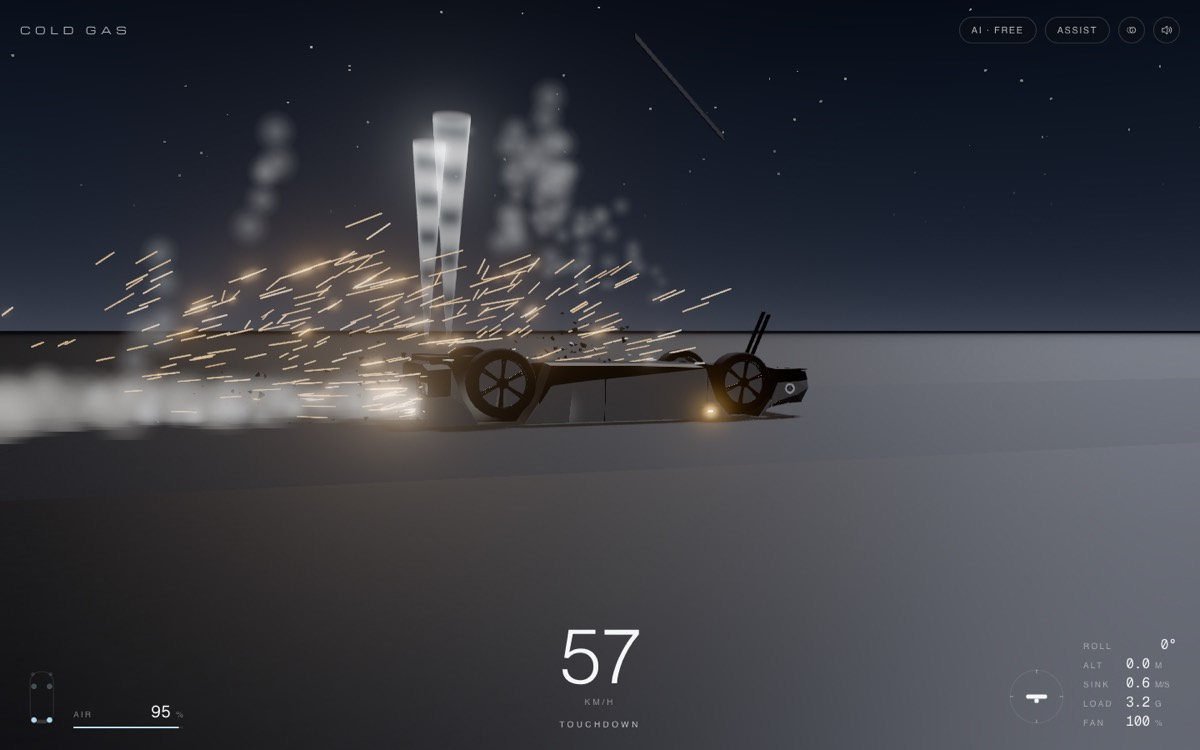
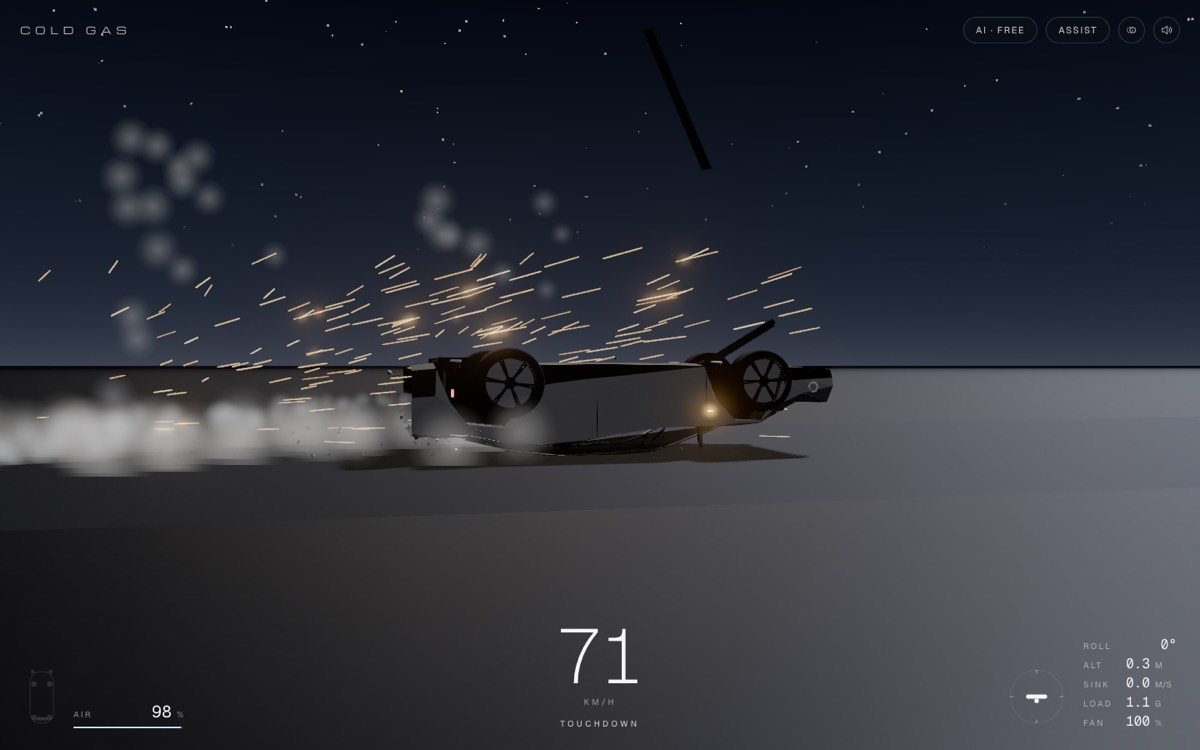
Crashes: rebase onto the taller Wall (SIM_VERSION 9), crash cases for the new mass, screenshots

diff --git a/tests/e2e/smoke.spec.js b/tests/e2e/smoke.spec.js
@@ -175,11 +175,11 @@ test('a crash plays out: impact events, wreckage, hazards, and the replay re-sho
   page.on('console', (m) => { if (m.type() === 'error' && !/api\//.test(m.text()) && !/404/.test(m.text())) errors.push(m.text()); });
   await page.goto('/coldgas/?course=lineup&gfx=low');
   await expect(page.locator('[data-start]')).toBeVisible();
-  // Roll only half way: it comes down on its roof on the row.
+  // Too low over the row: it clips the roofs and rolls over.
   await page.evaluate(() => {
     const g = window.__coldgas;
     g.startRun('reveal');
-    g.S.autopilot = g.createAutopilot('lineup', { rolls: 0.5 });
+    g.S.autopilot = g.createAutopilot('lineup', { apex: 2.5 });
     g.skipCountdown();
   });
   await page.waitForFunction(() => window.__coldgas.S.run.impacts.count > 0, null, { timeout: 45_000 });
@@ -189,7 +189,7 @@ test('a crash plays out: impact events, wreckage, hazards, and the replay re-sho
   expect(run.flipped).toBe(true);
   expect(run.impacts).toBeGreaterThan(5);
   // The replay walks the same events: the hazards come back on once it reaches the crash.
-  await page.evaluate(() => { window.__coldgas.S.replayT = 700; });
+  await page.evaluate(() => { window.__coldgas.S.replayT = 660; });
   await page.waitForFunction(() => window.__coldgas.crash.state.hazard === true, null, { timeout: 30_000 });
   expect(errors).toEqual([]);
 });

diff --git a/src/sim/run.js b/src/sim/run.js
@@ -7,11 +7,12 @@ import { SPEC } from './spec.js';
 import { v3 } from './m3.js';
 import { datan2, dacos, dhypot } from './dmath.js';
 
-// v8: bodywork folds (elastic to a 100 kN yield per hull probe, then plastic crush), no artificial
-// spin damping while the hull is in contact, impact events; v7: body geometry; v6: The Show is one
-// flight (off the Wall, over the row); parked vehicles are bodies with mass, per-surface materials; v5: driver-relative steer/roll/yaw, grip-limited steering; v4: sourced
-// specs (docs/REVEAL_RESEARCH.md); v3: dmath; v2: physics v2
-export const SIM_VERSION = 8;
+// v9: bodywork folds (elastic to a 100 kN yield per hull probe, then plastic crush), no artificial
+// spin damping while the hull is in contact, impact events; v8: taller Wall, sourced mass
+// distribution; v7: body geometry; v6: The Show is one flight (off the Wall, over the row); parked
+// vehicles are bodies with mass, per-surface materials; v5: driver-relative steer/roll/yaw,
+// grip-limited steering; v4: sourced specs (docs/REVEAL_RESEARCH.md); v3: dmath; v2: physics v2
+export const SIM_VERSION = 9;
 export const FRAME_EVERY = 4;           // replay frame every 4 ticks = 60 Hz
 export const MAX_TICKS = 240 * 90;      // 90 s hard cap
 

diff --git a/src/render/crash.js b/src/render/crash.js
@@ -350,7 +350,7 @@ export function createCrash({ scene, hero, carRoot, director, tier = 'high', cou
       // Into the parked car: against the normal (which points out of it, toward the roadster).
       wp.set(x - nx, y - ny, z - nz).applyMatrix4(inv);
       ld.copy(wp).sub(lp).normalize();
-      dent(d, 0.5 + depth * 1.5, depth, salt);
+      dent(d, 0.45 + depth * 1.2, depth, salt);
     }
   }
   function rockParked(i, x, z, nx, ny, nz, speed) {
@@ -473,7 +473,7 @@ export function createCrash({ scene, hero, carRoot, director, tier = 'high', cou
     // A big hit vents a nitrogen line: a white jet of condensation for a moment.
     if (sev > 0.55) st.ventT = Math.max(st.ventT, 1.1 + sev);
     // Parked car: a dent and a rock on its springs.
-    if (body >= 0) { dentParked(body, x, y, z, nx, ny, nz, Math.min(0.22, 0.006 * v * v), imp.tick[i] * 0.29); rockParked(body, x, z, nx, ny, nz, v); }
+    if (body >= 0) { dentParked(body, x, y, z, nx, ny, nz, Math.min(0.14, 0.003 * v * v), imp.tick[i] * 0.29); rockParked(body, x, z, nx, ny, nz, v); }
     crunch(sev, { glass: glassy && v > 5, seed: imp.tick[i] * 31 + imp.probe[i] });
     if (!reduced) {
       director.shake(Math.min(2.6, 0.25 + v * 0.17));

diff --git a/tests/unit/crash.test.js b/tests/unit/crash.test.js
@@ -88,10 +88,12 @@ describe('impact events', () => {
     expect(events(re.impacts)).toEqual(events(carry5.impacts));
     expect(scoreRun(re.t)).toEqual(scoreRun(carry5.t));
   });
-  const roll = fly('lineup', { rolls: 0.5 });
-  it('a rollover: lands on its roof on the row and rolls over, and replays bit-exactly', () => {
+  // Too low over the row: it clips the roofs, goes over on its side and ends on its roof.
+  const roll = fly('lineup', { apex: 2.5 });
+  it('a rollover: clips the row, rolls onto its roof, and replays bit-exactly', () => {
     expect(roll.t.flipped).toBe(true);
-    expect(kinds(roll.impacts, HIT).some((e) => e[2] === PART.roof)).toBe(true);
+    expect(kinds(roll.impacts, HIT).some((e) => e[2] === PART.side && e[4] >= 0)).toBe(true);
+    expect(kinds(roll.impacts, SCRAPE).some((e) => e[2] === PART.roof)).toBe(true);
     expect(Math.max(...roll.car.crush)).toBeGreaterThan(0.05);
     const re = simulate(roll.inputLog, 'lineup');
     expect(re.tick).toBe(roll.tick);

diff --git a/docs/CHANGELOG.md b/docs/CHANGELOG.md
@@ -1,5 +1,23 @@
 # Changelog
 
+## Unreleased
+
+**Crashes** (SIM_VERSION 9). A crash used to just happen; now the physics folds, the record says what hit what, and the renderer, camera and sound make it land.
+- Bodywork is elastic to a yield, then it folds and stays folded. Each body hull probe springs at 1.2 MN/m up to 100 kN (≈8 cm), then crushes plastically, up to 0.35 m. The yield is an estimate from crash tests: a 56 km/h full-frontal barrier test crushes a 1.5–2 t car ≈0.6–0.7 m (≈350–400 kN mean force over the ≈4 probes a nose engages), and FMVSS 216 holds roofs to ≥3× vehicle weight (≈72 kN here) within 127 mm. The old fully elastic 0.3 MN/m spring let a hard hit sink the body 0.3–0.5 m into the ground and fired it back out. Drop tests (roof, side, nose at 6–15 m/s) now rebound at e ≈ 0.18–0.33 (was 0.27–0.5, and 0.98 for a slow nose hit), with 40–77 g peaks and up to 0.33 m of crush. The floor probes (skirts and pan) keep the old compliant law, so clean runs are untouched.
+- No artificial spin damping while the hull is in contact. The 0.997-per-tick grounded damper (it halved a spin every second) ate tumbles and rollovers. Scraping contact removes that energy itself.
+- Impact events (src/sim/impacts.js): every hull hit, slide, tyre slam and fold, with its tick, world point, normal, speed, body part and the parked body it struck. They are recorded in the sim, so they replay bit-exactly and the replay re-shows the crash.
+- What a crash shows (src/render/crash.js, src/render/debris.js):
+  - Sparks: instanced streaks, hot white cooling to orange, bouncing off the concrete.
+  - Glass, carbon and paint chips, a dust ring, and a nitrogen line venting condensation after a big hit.
+  - The wing, intake vanes, barge boards and skirts tear off as small rigid bodies that tumble and settle.
+  - The body dents where the physics folded it, as deep as it folded. Struck parked cars dent and rock on their springs.
+  - The canopy crazes. The lamps flicker out and the hazards come on.
+  - The camera shakes with the impact, slow motion holds a beat, and a locked-off crash camera cuts in.
+  - A procedural crunch layered by severity (thump, crack, folding metal, glass), plus a grind while the body slides.
+- `prefers-reduced-motion` now also drops the landing shakes, the crash shake, the slow motion and the cut.
+- Reference runs score as before: Show 90.3, Wall 94.0, Lineup 84.3. `node scripts/crash-probe.mjs` prints the crash cases; `node scripts/shots-crash.mjs outdir url` screenshots them.
+
+
 ## 0.8.0 — 2026-10-20
 
 A taller Wall, and the car's mass where the research puts it (SIM_VERSION 8).
@@ -30,21 +48,6 @@ The car's real geometry in the physics (SIM_VERSION 7), from the body research (
 ## Unreleased
 
 2026-10-20 · #0002 · The touchdown lands in the body: a camera dip, an FOV punch-in, a ring of mist from each tyre and a thud whose depth and weight follow the sink rate (energy, v²). A 1 m/s landing is a light tap, a 4 m/s one is a deep thump with a suspension crunch. Reduced motion keeps the sound and the mist but drops the dip, the punch and every camera shake (the lift-off shake wasn't gated before).
-**Crashes** (SIM_VERSION 8). A crash used to just happen; now the physics folds, the record says what hit what, and the renderer, camera and sound make it land.
-- Bodywork is elastic to a yield, then it folds and stays folded. Each body hull probe springs at 1.2 MN/m up to 100 kN (≈8 cm), then crushes plastically, up to 0.35 m. The yield is an estimate from crash tests: a 56 km/h full-frontal barrier test crushes a 1.5–2 t car ≈0.6–0.7 m (≈350–400 kN mean force over the ≈4 probes a nose engages), and FMVSS 216 holds roofs to ≥3× vehicle weight (≈72 kN here) within 127 mm. The old fully elastic 0.3 MN/m spring let a hard hit sink the body 0.3–0.5 m into the ground and fired it back out. Drop tests (roof, side, nose at 6–15 m/s) now rebound at e ≈ 0.18–0.33 (was 0.27–0.5, and 0.98 for a slow nose hit), with 40–77 g peaks and up to 0.33 m of crush. The floor probes (skirts and pan) keep the old compliant law, so clean runs are untouched.
-- No artificial spin damping while the hull is in contact. The 0.997-per-tick grounded damper (it halved a spin every second) ate tumbles and rollovers. Scraping contact removes that energy itself.
-- Impact events (src/sim/impacts.js): every hull hit, slide, tyre slam and fold, with its tick, world point, normal, speed, body part and the parked body it struck. They are recorded in the sim, so they replay bit-exactly and the replay re-shows the crash.
-- What a crash shows (src/render/crash.js, src/render/debris.js):
-  - Sparks: instanced streaks, hot white cooling to orange, bouncing off the concrete.
-  - Glass, carbon and paint chips, a dust ring, and a nitrogen line venting condensation after a big hit.
-  - The wing, intake vanes, barge boards and skirts tear off as small rigid bodies that tumble and settle.
-  - The body dents where the physics folded it, as deep as it folded. Struck parked cars dent and rock on their springs.
-  - The canopy crazes. The lamps flicker out and the hazards come on.
-  - The camera shakes with the impact, slow motion holds a beat, and a locked-off crash camera cuts in.
-  - A procedural crunch layered by severity (thump, crack, folding metal, glass), plus a grind while the body slides.
-- `prefers-reduced-motion` now also drops the landing shakes, the crash shake, the slow motion and the cut.
-- Reference runs score as before: Show 90.3, Wall 94.0, Lineup 84.3. `node scripts/crash-probe.mjs` prints the crash cases; `node scripts/shots-crash.mjs outdir url` screenshots them.
-
 
 **First load** (phone, 4× CPU, Slow 4G, local build: first paint 1.48 s → 0.75 s, title wired 3.63 s → 2.99 s, longest main-thread task 588 ms → 284 ms)
 - The stylesheet is inlined into index.html (latin-only font faces) and the display face is preloaded, so the title paints from the HTML alone.
